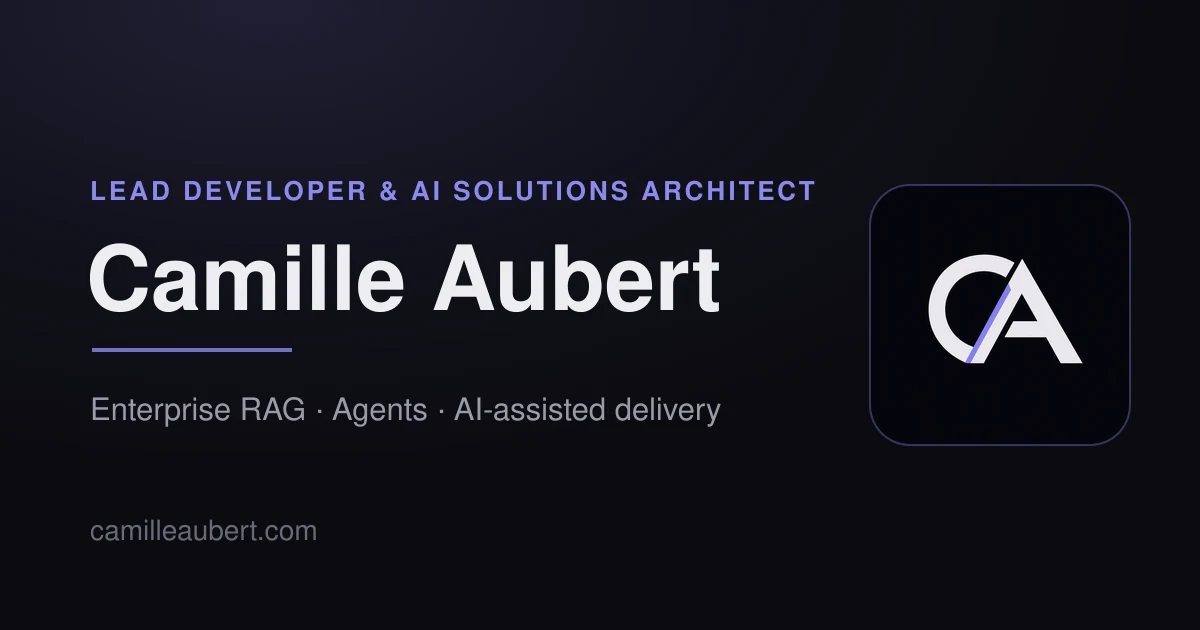
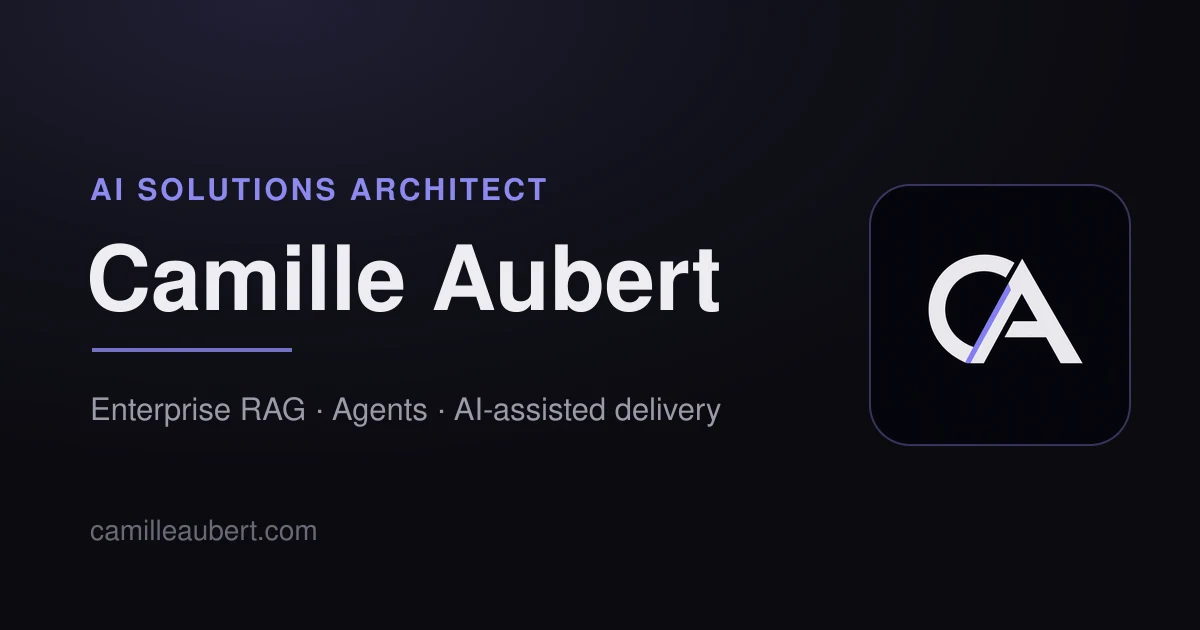
feat(brand): intitulé AI Solutions Architect partout (site, JSON-LD, persona, OG)

Changed region(s): [[0.0617, 0.2714, 0.6783, 0.3317]]

diff --git a/src/pages/writing/[slug]/og.png.ts b/src/pages/writing/[slug]/og.png.ts
@@ -79,7 +79,7 @@ export const GET: APIRoute = async ({ props }) => {
   <rect x='110' y='${330 + titleLines.length * 76 - 40}' width='170' height='4' fill='url(#rule)'/>
 
   <text x='110' y='${H - 90}' font-family='Satoshi Variable' font-weight='500' font-size='26' fill='#9a9aa8'>${escapeXml(post.data.date.toLocaleDateString('en-US', { month: 'long', day: 'numeric', year: 'numeric' }))}</text>
-  <text x='110' y='${H - 46}' font-family='Satoshi Variable' font-weight='400' font-size='22' fill='#9a9aa8' fill-opacity='0.7'>Camille Aubert · Lead Developer &amp; AI Solutions Architect</text>
+  <text x='110' y='${H - 46}' font-family='Satoshi Variable' font-weight='400' font-size='22' fill='#9a9aa8' fill-opacity='0.7'>Camille Aubert · AI Solutions Architect</text>
 </svg>`;
 
   const png = await sharp(Buffer.from(svg)).png({ quality: 90 }).toBuffer();

diff --git a/src/pages/llms.txt.ts b/src/pages/llms.txt.ts
@@ -15,7 +15,7 @@ export async function GET() {
   const lines = [
     `# ${site.name} — camilleaubert.com`,
     '',
-    `> ${site.name} — Lead Developer & AI Solutions Architect at Cegos Group. Enterprise RAG platforms, multi-agent orchestration, AI-assisted delivery. Writing (REX, FR/EN) and open-source side projects. Fontenay-le-Fleury, France.`,
+    `> ${site.name} — AI Solutions Architect at Cegos Group. Enterprise RAG platforms, multi-agent orchestration, AI-assisted delivery. Writing (REX, FR/EN) and open-source side projects. Fontenay-le-Fleury, France.`,
     '',
     '## Pages',
     '',

diff --git a/src/data/site.ts b/src/data/site.ts
@@ -1,6 +1,6 @@
 export const site = {
   name: 'Camille Aubert',
-  title: 'Camille Aubert — AI Solutions Architect & Lead Full-Stack Developer',
+  title: 'Camille Aubert — AI Solutions Architect',
   description:
     'Architecting robust, scalable web ecosystems and production-grade AI systems — RAG workflows, agent orchestration, and AI-assisted delivery at enterprise scale.',
   url: 'https://camilleaubert.com',
